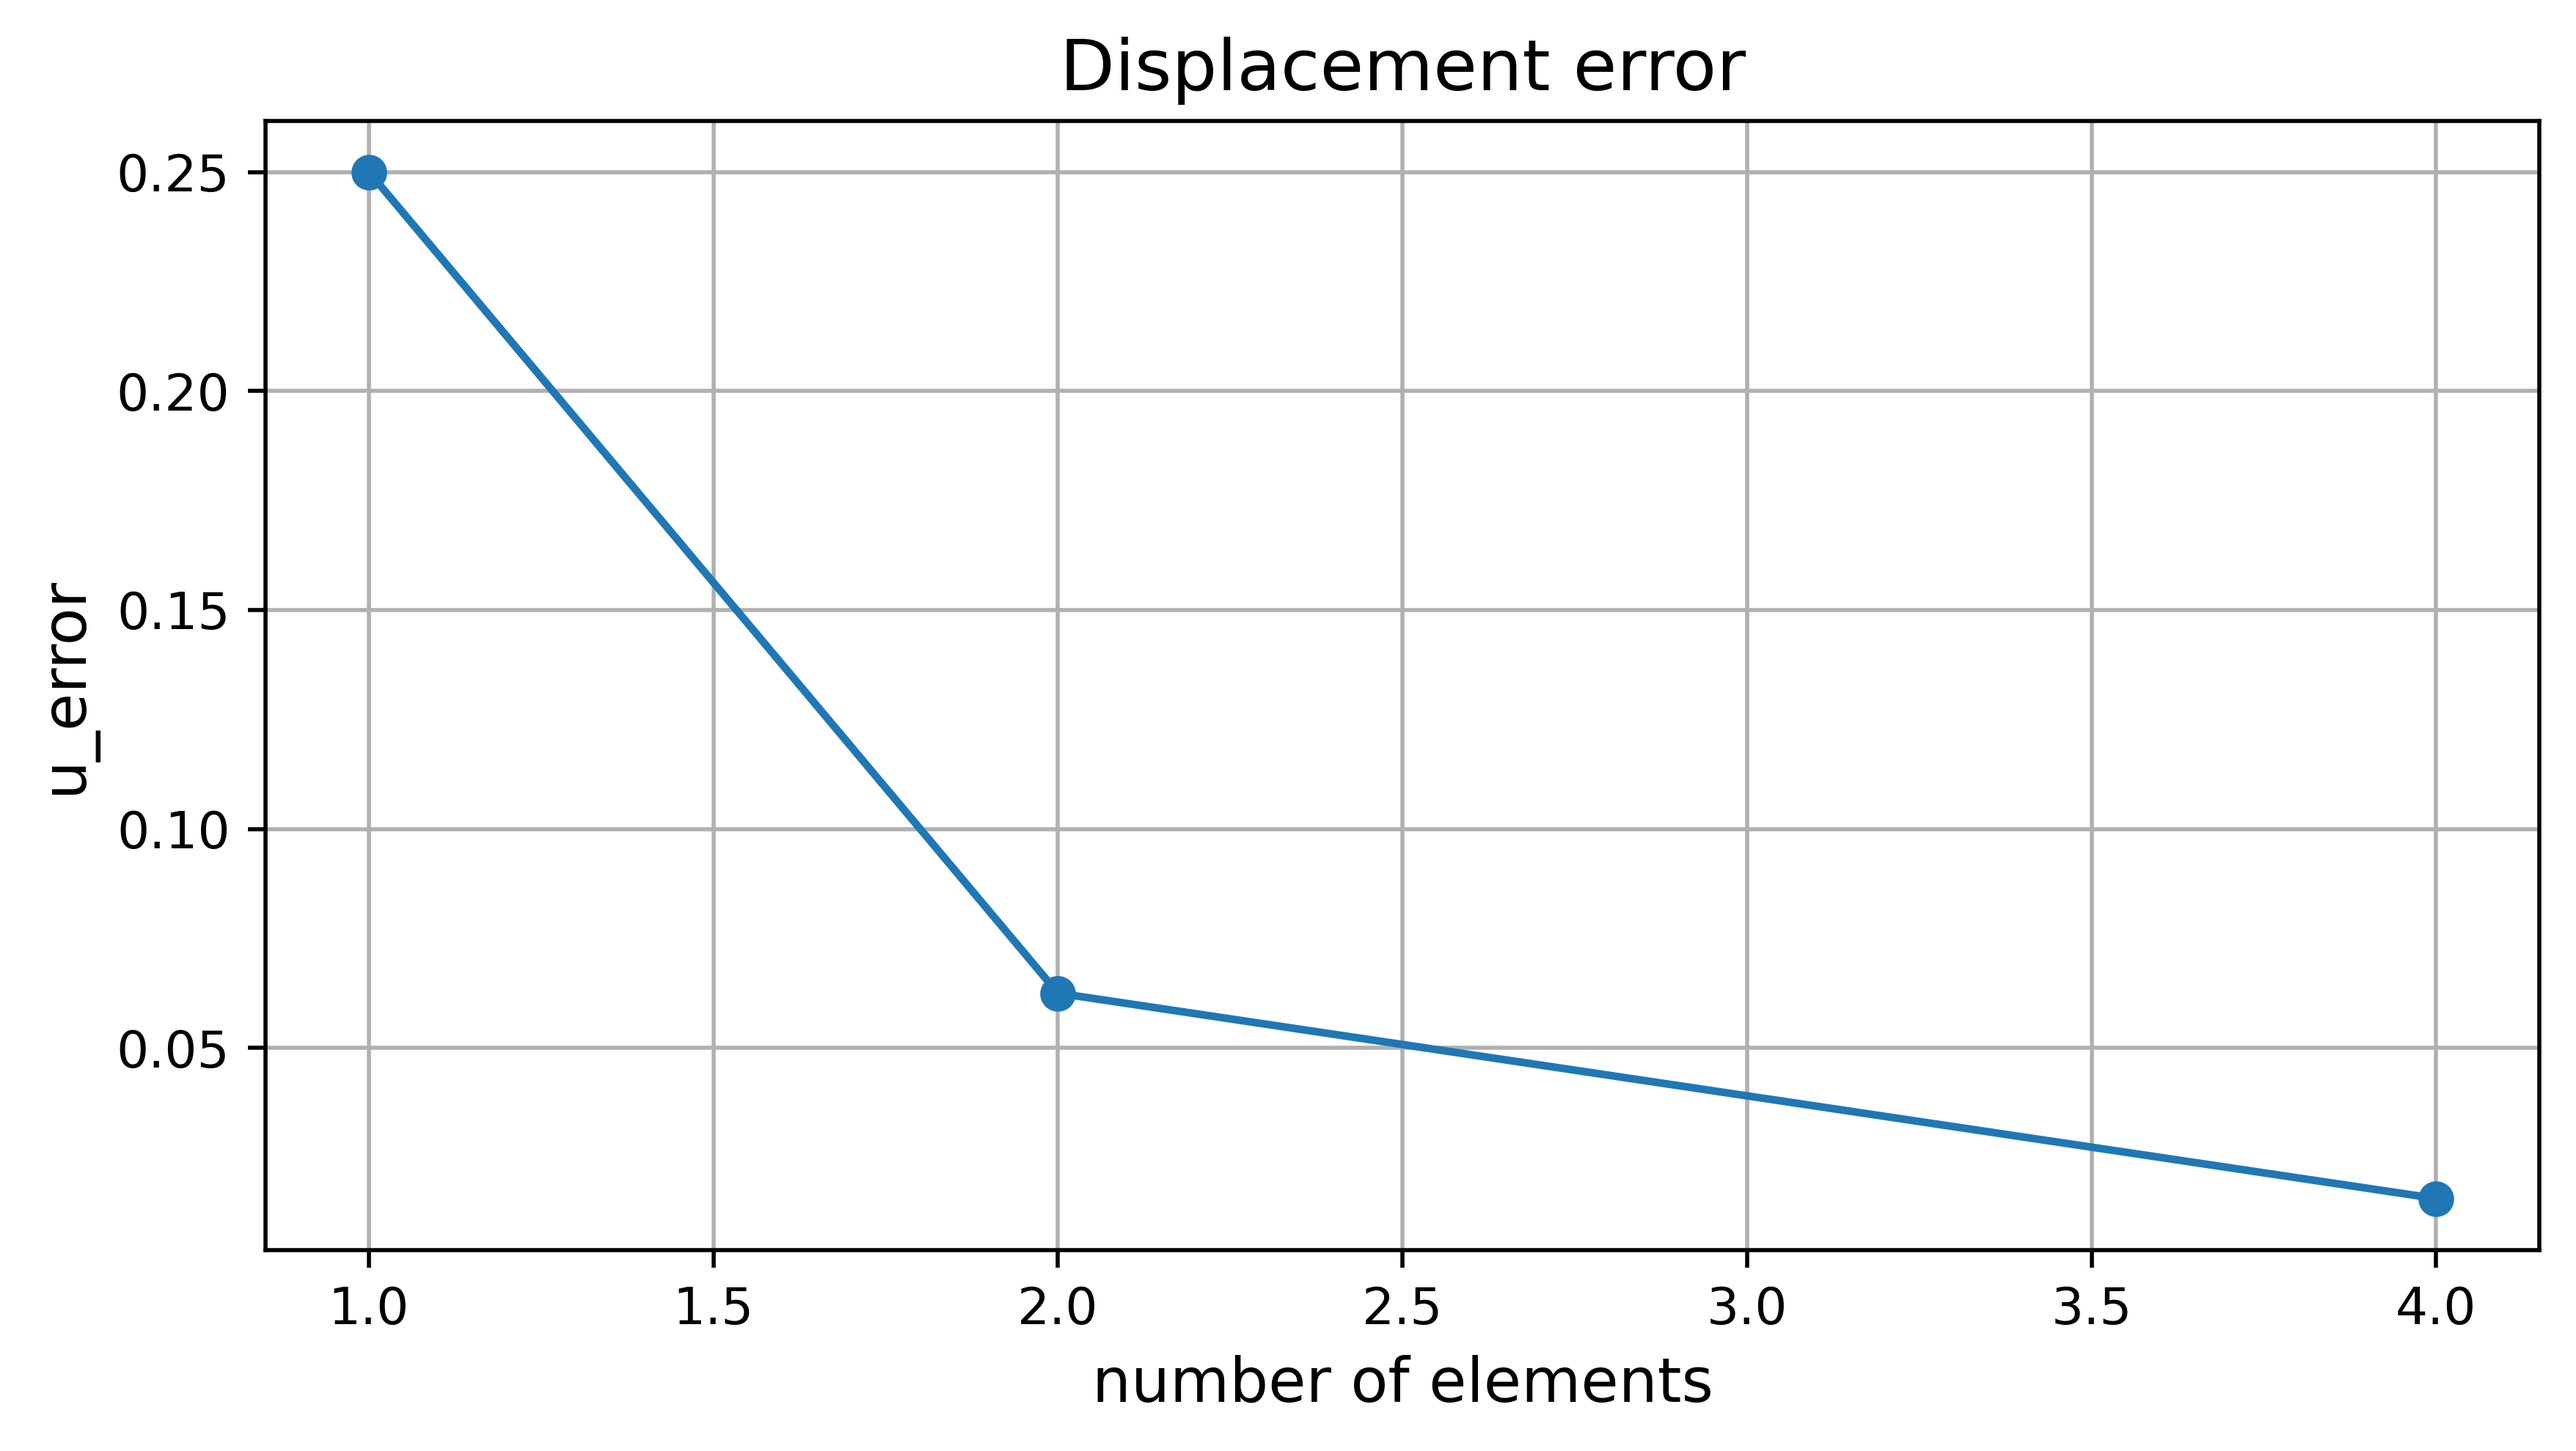
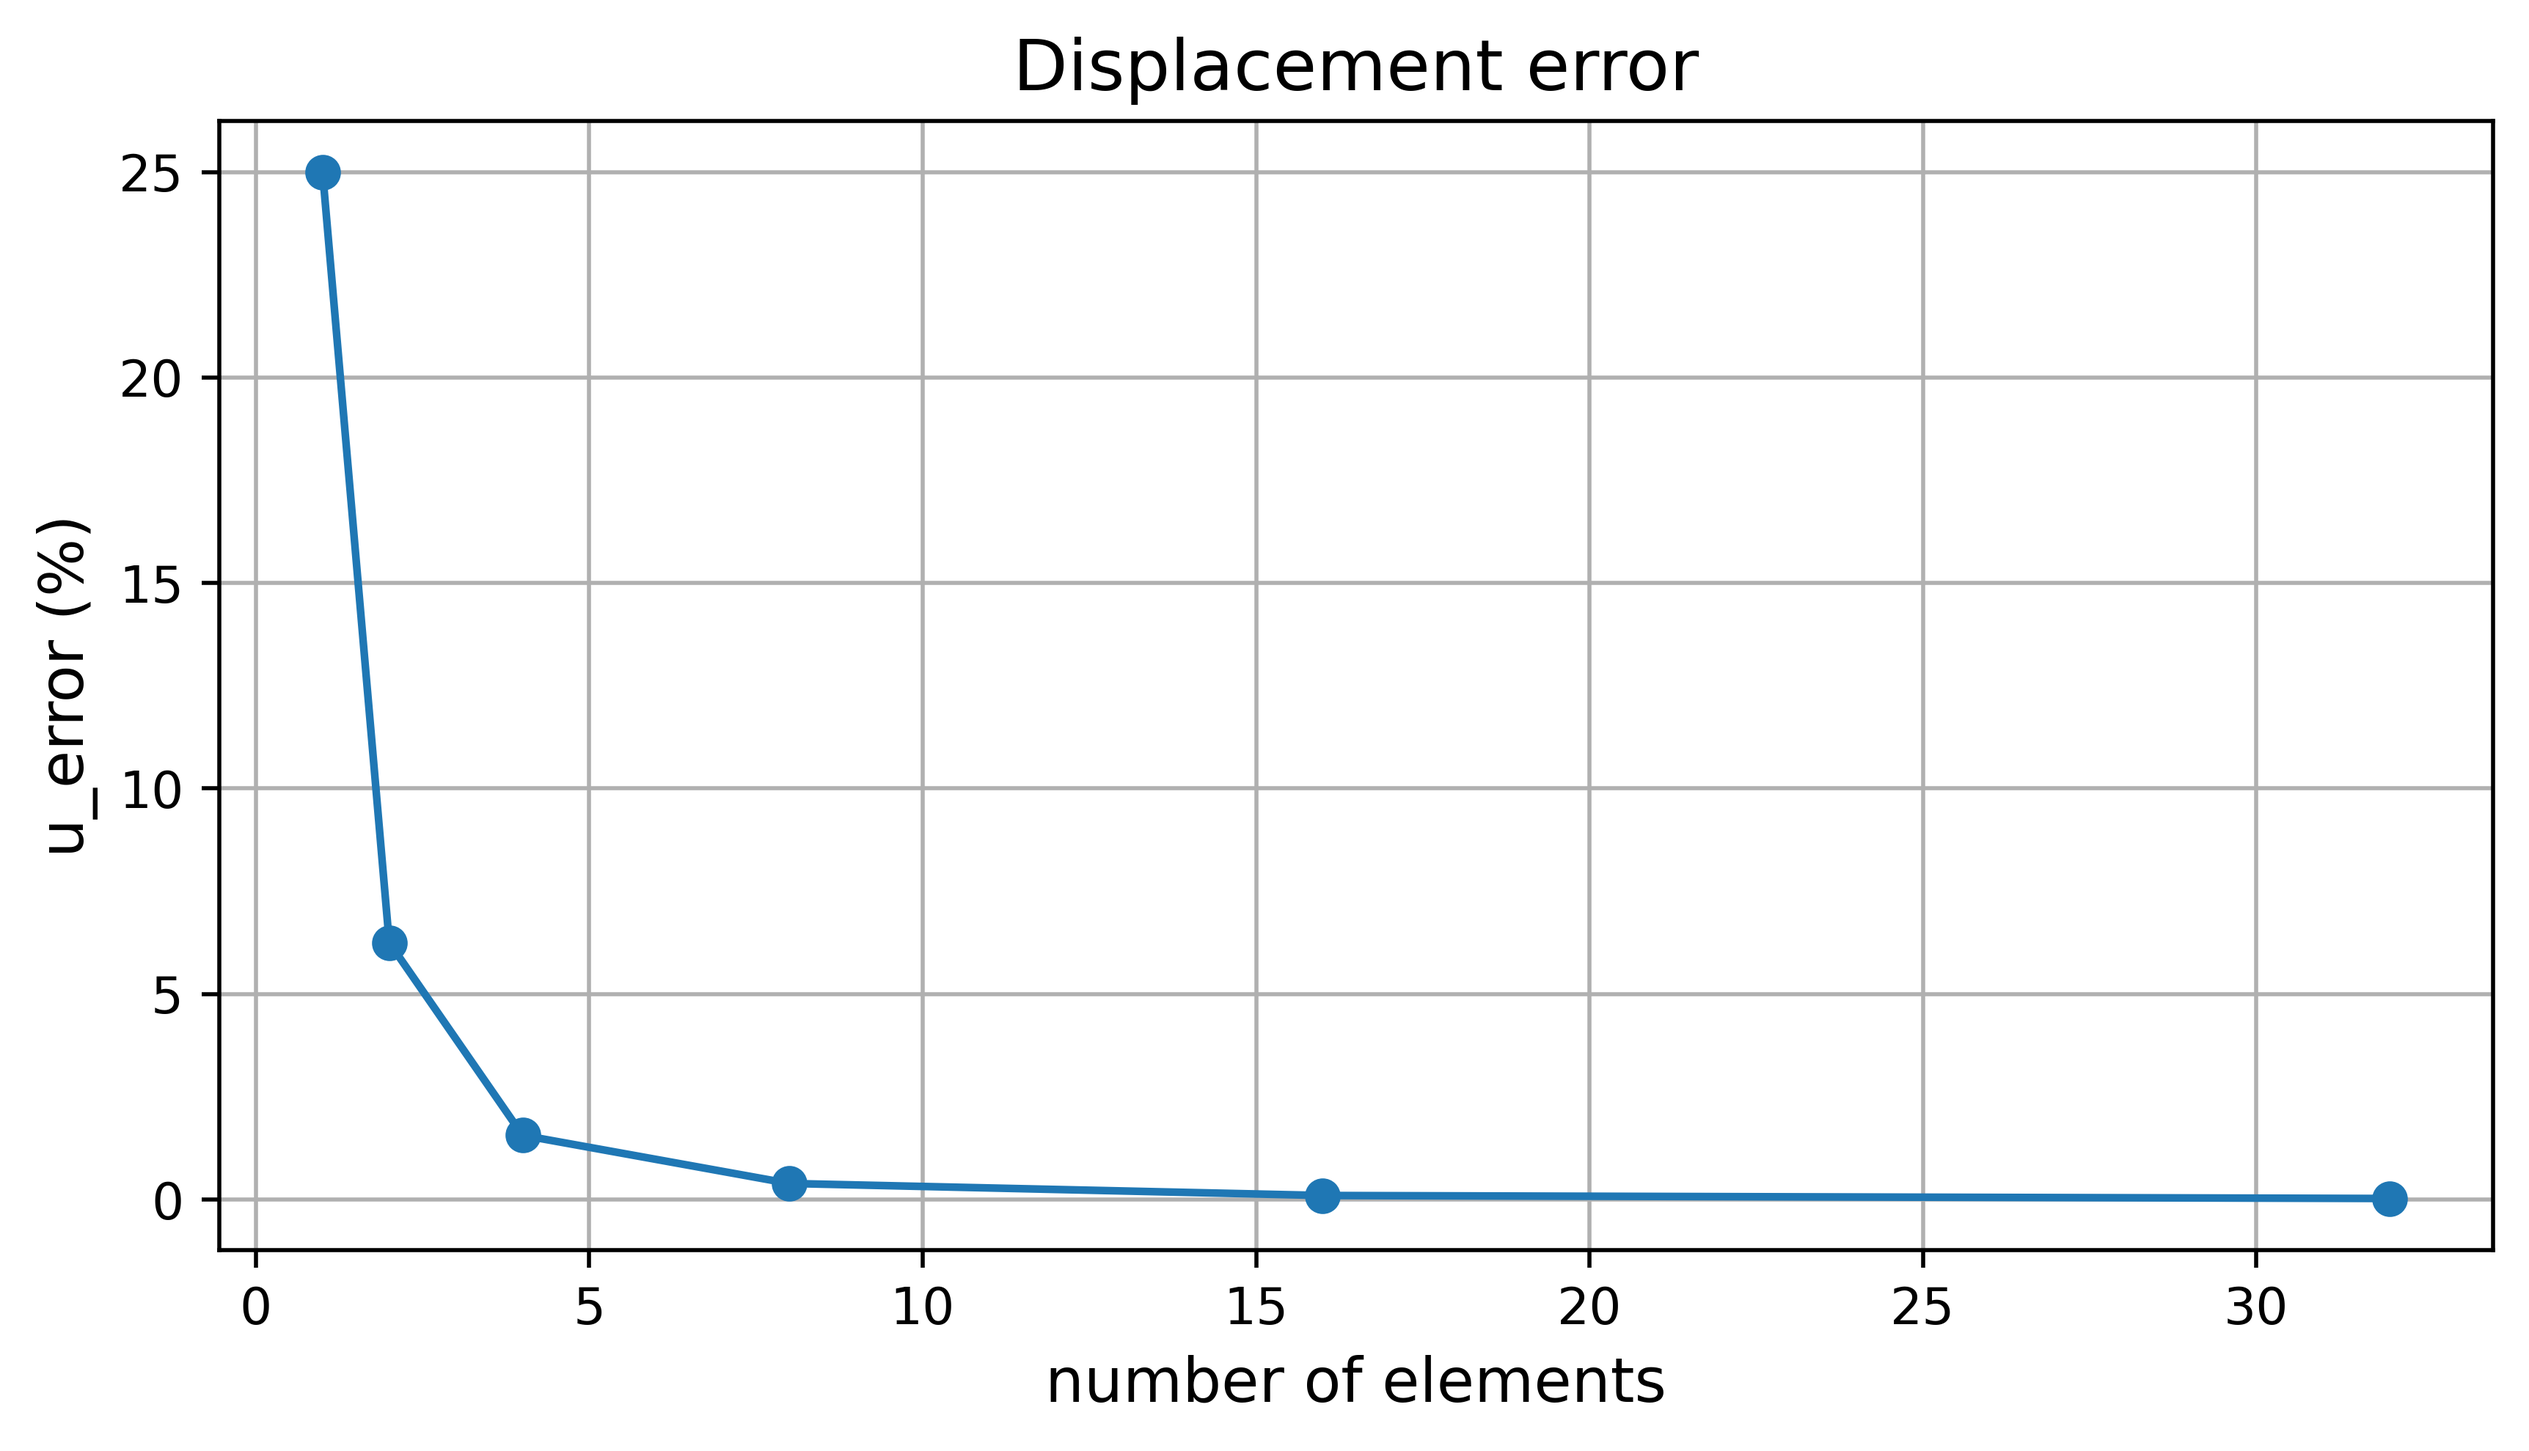
.

diff --git a/MHA021/CA1/CA1.py b/MHA021/CA1/CA1.py
@@ -503,7 +503,6 @@ def FEM_3(n_elem_start, iterations):
         print(f"Displacements: {a}")
         print(f"Displacement at free end u(L): {a[-1]:.2e} m")
         
-        
         N_list = []
         print("Normal forces:")
         for e in range(n_elem):
@@ -541,14 +540,17 @@ def FEM_3(n_elem_start, iterations):
     return u_error_list, N_error_list, n_elem_list
 
 n_elem_start = 1
-iterations = 2
+iterations = 5
 u_error_list, N_error_list, n_elem_list = FEM_3(n_elem_start, iterations)
+
+u_error_list_percent = [i  * 100 for i in u_error_list]
+N_error_list_percent = [i * 100 for i in N_error_list]
 
 # Plot displacement error
 plt.figure()
-plt.plot(n_elem_list, u_error_list, 'o-')
+plt.plot(n_elem_list, u_error_list_percent, 'o-')
 plt.xlabel('number of elements')
-plt.ylabel('u_error')
+plt.ylabel('u_error (%)')
 plt.title('Displacement error')
 plt.grid()
 sfig('Displacement error.png')
@@ -556,9 +558,9 @@ plt.show()
    
 # Plot normal force error
 plt.figure()
-plt.plot(n_elem_list, N_error_list, 'o-')
+plt.plot(n_elem_list, N_error_list_percent, 'o-')
 plt.xlabel('number of elements')
-plt.ylabel('N_error')
+plt.ylabel('N_error (%)')
 plt.title('Normal force error')
 plt.grid()
 sfig('Normal force error.png')
